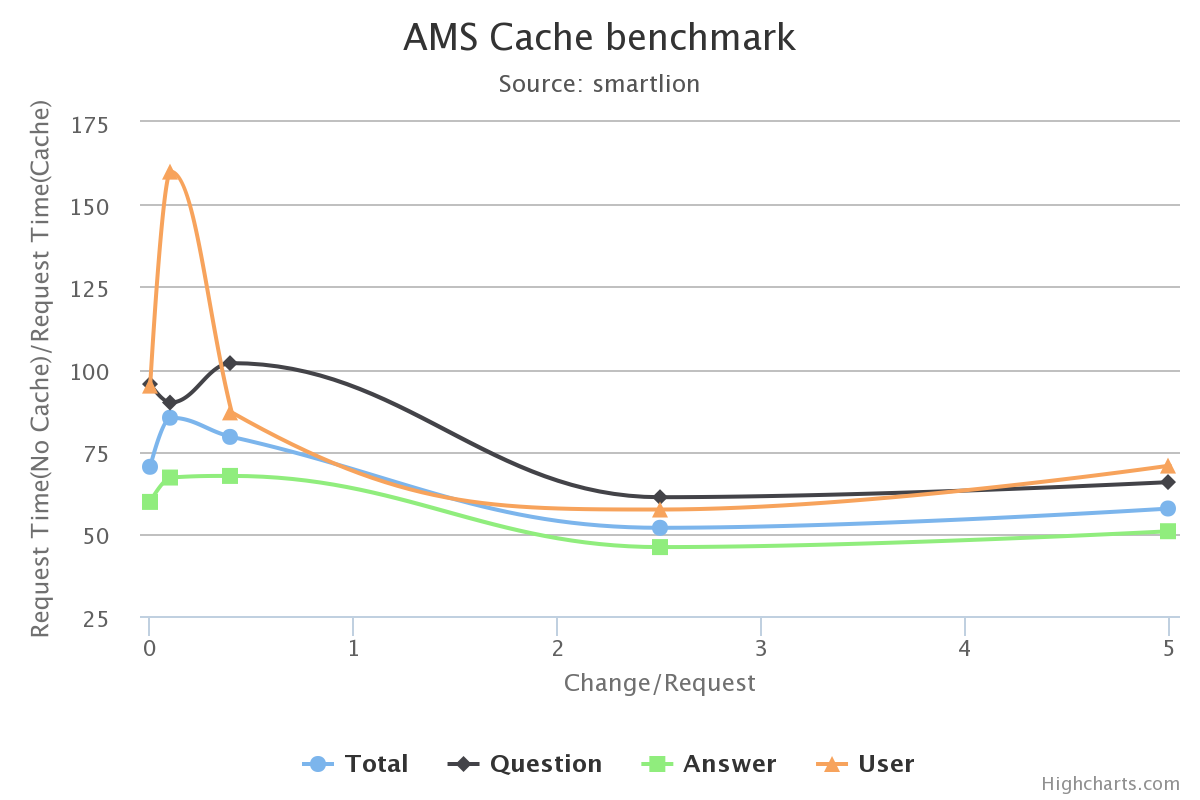
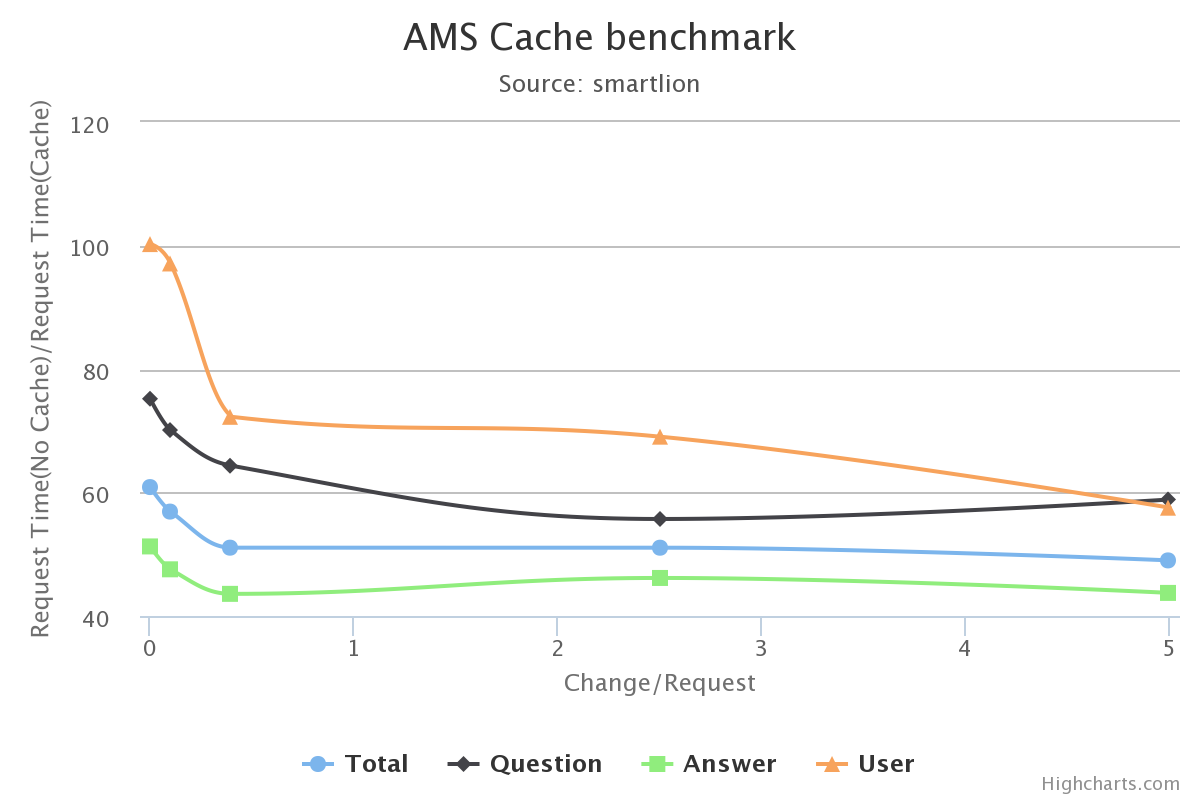
update benchmark result and chart

diff --git a/public/benchmark_result.md b/public/benchmark_result.md
@@ -9,131 +9,93 @@
 
 基本情况: 每个 API 请求10次, 分别测试 users, questions， answers 的 API
 
+基本步骤：
+
+1. 移除缓存代码/添加缓存代码
+2. 移除现有缓存文件： `rm -rf tmp/cache`
+3. 运行命令（Command）
+4. 得到结果
+
+生成缓存效果图脚本： [缓存结果脚本](http://jsfiddle.net/u8dg517z/)
+
 ## AMS 新缓存策略性
+
+效果： [http://jsfiddle.net/u8dg517z/1/](http://jsfiddle.net/u8dg517z/1/)
 
 ### 不缓存时
 
-步骤:
-
-0. 去掉缓存代码
-1. Command: `bin/rake benchmark:ams:static`
-2. 得到结果
+Command: `bin/rake benchmark:ams:static`
 
 total: 218.552456 answers: 125.086825 questions: 62.398483 users: 31.067148
 
 ### 变化率为 0
 
-步骤：
+Command: `bin/rake benchmark:ams:static`
 
-1. 移除现有缓存文件： `rm -rf tmp/cache`
-2. Command: `bin/rake benchmark:ams:static`
-3. 得出结果
-
-total: 3.778123 answers: 2.326849 questions: 1.092035 users: 0.359239
+total: 3.592084 answers: 2.444963 questions: 0.833137 users: 0.313984
 
 #### 每 1 次请求，随机修改 5 个数据， 变化率： 5
 
-步骤：
+Command: ` bin/rake "benchmark:ams:dynamic[1, 5]"`
 
-1. 移除现有缓存文件： `rm -rf tmp/cache`
-2. Command: ` bin/rake "benchmark:ams:dynamic[1, 5]"`
-3. 得出结果
-
-total: 5.136209 answers: 3.001593 questions: 1.233968 users: 0.900648
+total: 4.45836 answers: 2.860041 questions: 1.055253 users: 0.543066
 
 #### 每 2 次请求，随机修改 5 个数据， 变化率: 2.5
 
-步骤：
-
-1. 移除现有缓存文件： `rm -rf tmp/cache`
-2. Command: `bin/rake "benchmark:ams:dynamic[2, 5]"`
-3. 得出结果
+Command: `bin/rake "benchmark:ams:dynamic[2, 5]"`
 
 total: 4.284781 answers: 2.714101 questions: 1.124338 users: 0.446342
 
 #### 每 5 次请求，随机修改 2 个数据， 变化率： 0.4
 
-步骤：
+Command: ` bin/rake "benchmark:ams:dynamic[5, 2]"`
 
-1. 移除现有缓存文件： `rm -rf tmp/cache`
-2. Command: ` bin/rake "benchmark:ams:dynamic[5, 2]"`
-3. 得出结果
-
-total: 6.405287 answers: 4.100956 questions: 1.677337 users: 0.626994
+total: 4.272063 answers: 2.865145 questions: 0.974502 users: 0.432416
 
 #### 每 10 次请求，随机修改 1 个数据， 变化率： 0.1
 
-步骤：
+Command: ` bin/rake "benchmark:ams:dynamic[10, 1]"`
 
-1. 移除现有缓存文件： `rm -rf tmp/cache`
-2. Command: ` bin/rake "benchmark:ams:dynamic[10, 1]"`
-3. 得出结果
+total: 3.836938 answers: 2.627063 questions: 0.892995 users: 0.31688
 
-total: 6.822395 answers: 4.317531 questions: 1.8878 users: 0.617064
 
 ## jbuilder 缓存
 
+效果：[http://jsfiddle.net/4gsnkbfw/1/](http://jsfiddle.net/4gsnkbfw/1/)
+
 ### 不缓存时
 
-步骤：
-
-0. 去掉缓存代码
-1. Command: `bin/rake benchmark:jbuilder:static`
-2. 得到结果
+Command: `bin/rake benchmark:jbuilder:static""`
 
 total: 220.495259 answers: 126.131296 questions: 62.976411 users: 31.387552
 
-
 ### 变化率为 0
 
-步骤：
+Command: ` bin/rake "benchmark:jbuilder:dynamic[10, 0]"`
 
-1. 移除现有缓存文件： `rm -rf tmp/cache`
-2. Command: ` bin/rake benchmark:jbuilder:static`
-3. 得出结果
-
-
-total: 9.845769 answers: 1.962589 questions: 5.801544 users: 2.081636
+total: 3.830427 answers: 2.643148 questions: 0.815531 users: 0.371748
 
 #### 每 1 次请求，随机修改 5 个数据， 变化率： 5
 
-步骤：
+Command: ` bin/rake "benchmark:jbuilder:dynamic[1, 5]"`
 
-1. 移除现有缓存文件： `rm -rf tmp/cache`
-2. Command: ` bin/rake "benchmark:jbuilder:dynamic[1, 5]"`
-3. 得出结果
-
-
-total: 36.496331 answers: 18.457083 questions: 11.107355 users: 6.931893
+total: 4.439994 answers: 2.78793 questions: 1.113543 users: 0.538521
 
 #### 每 2 次请求，随机修改 5 个数据， 变化率: 2.5
 
-步骤：
+Command: ` bin/rake "benchmark:jbuilder:dynamic[2, 5]"`
 
-1. 移除现有缓存文件： `rm -rf tmp/cache`
-2. Command: ` bin/rake "benchmark:jbuilder:dynamic[2, 5]"`
-3. 得出结果
-
-
-total: 27.917461 answers: 15.603559 questions: 8.104411 users: 4.209491
+total: 3.943025 answers: 2.497299 questions: 1.001955 users: 0.443771
 
 #### 每 5 次请求，随机修改 2 个数据， 变化率： 0.4
 
-步骤：
-
-1. 移除现有缓存文件： `rm -rf tmp/cache`
-2. Command: ` bin/rake "benchmark:jbuilder:dynamic[5, 2]"`
-3. 得出结果
+Command: ` bin/rake "benchmark:jbuilder:dynamic[5, 2]"`
 
 
-total: 21.871125 answers: 13.61873 questions: 6.020485 users: 2.23191
+total: 3.733144 answers: 2.487776 questions: 0.892729 users: 0.352639
 
 #### 每 10 次请求，随机修改 1 个数据， 变化率： 0.1
 
-步骤：
+Command: ` bin/rake "benchmark:jbuilder:dynamic[10, 1]"`
 
-1. 移除现有缓存文件： `rm -rf tmp/cache`
-2. Command: ` bin/rake "benchmark:jbuilder:dynamic[10, 1]"`
-3. 得出结果
-
-total: 21.373251 answers: 13.384983 questions: 5.966213 users: 2.022055
+total: 3.667515 answers: 2.478294 questions: 0.851009 users: 0.338212
